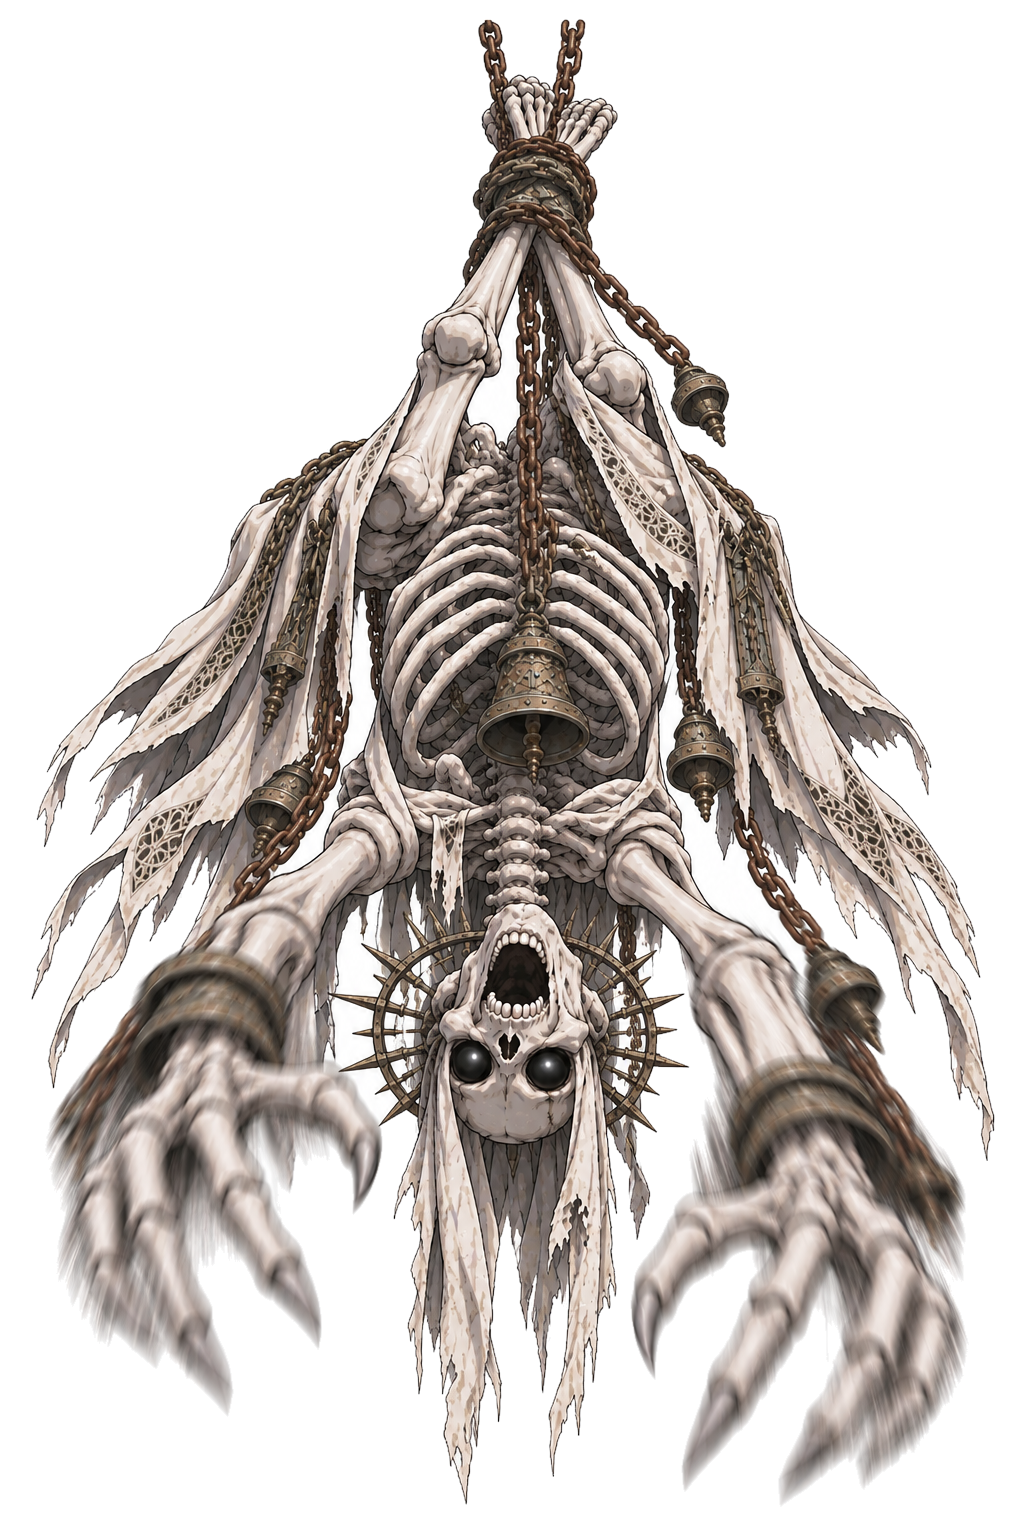
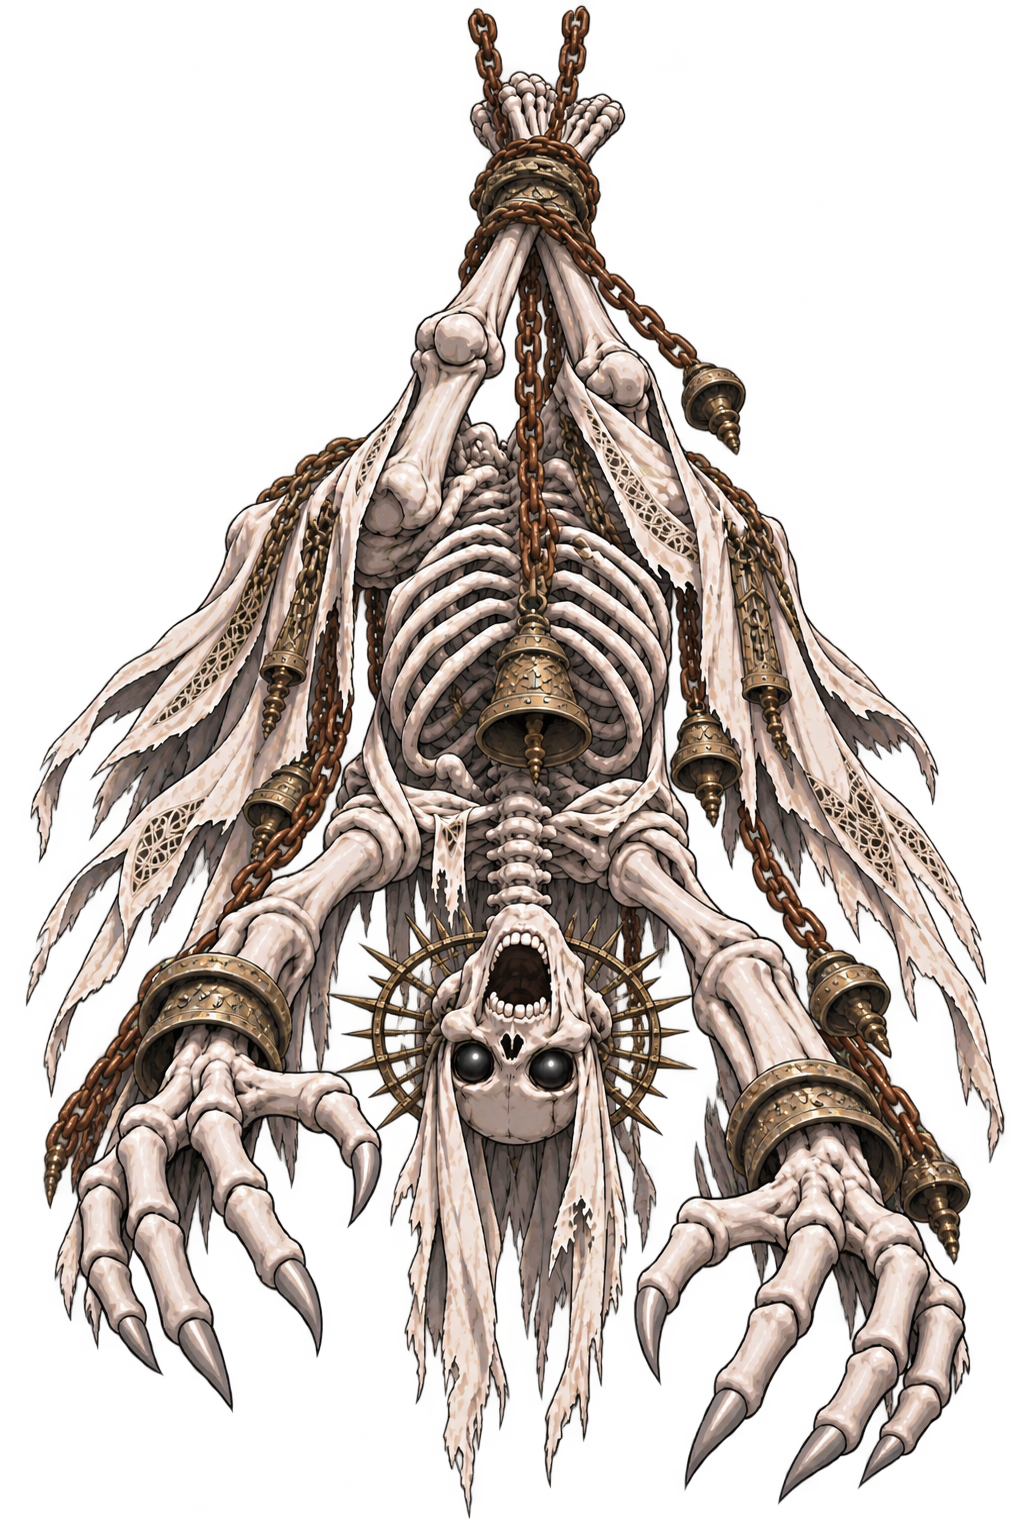
敵人：古墓 B 重做（吊鍊屍／聖匣之手改 GPT 重繪去背、墓香爐改甩、抬棺列回收）；骷髏塚散骨 17 個＋TO_CODE；審閱頁

Changed region(s): [[0.0312, 0.0, 1.0, 0.9798]]

diff --git a/tools/enemy_review/tomb_redo2.html b/tools/enemy_review/tomb_redo2.html
@@ -1,0 +1,49 @@
+<!doctype html>
+<html lang="zh-Hant"><head><meta charset="utf-8"><meta name="viewport" content="width=device-width,initial-scale=1">
+<title>古墓重出 B 審閱</title>
+<style>
+:root{--bg:#1a1a30;--fg:#eee;--chk1:#2a2a48;--chk2:#22223c}
+body{margin:0;background:var(--bg);color:var(--fg);font-family:"Microsoft JhengHei",sans-serif}
+h1{font-size:18px;margin:12px 16px}
+.note{margin:0 16px 12px;font-size:13px;color:#bbb}
+.grid{display:grid;grid-template-columns:repeat(auto-fill,minmax(420px,1fr));gap:16px;padding:0 16px 24px}
+.card{background:#111126;border-radius:8px;padding:10px}
+.card h2{font-size:16px;margin:0 0 4px;color:#ffe08a}
+.card p{font-size:13px;margin:0 0 8px;color:#ccc}
+.pair{display:grid;grid-template-columns:1fr 1fr;gap:6px}
+.pair figure{margin:0;text-align:center;font-size:12px;color:#aaa}
+.pair img{width:100%;aspect-ratio:2/3;object-fit:contain;cursor:zoom-in;
+ background:conic-gradient(var(--chk1) 25%,var(--chk2) 0 50%,var(--chk1) 0 75%,var(--chk2) 0) 0 0/24px 24px;border-radius:4px}
+#zoom{position:fixed;inset:0;background:rgba(0,0,0,.9);display:none;align-items:center;justify-content:center;cursor:zoom-out}
+#zoom img{max-width:96vw;max-height:96vh}
+</style></head><body>
+<h1>伊甸古墓：重出的攻擊 B（抬棺列已回收）（11-22）</h1>
+<div class="note">左＝原圖 A（中立）、右＝新 B（GPT 真透明）。點圖放大。點頭才跑 Wan。</div>
+<div class="grid" id="g"></div>
+<h1>骷髏塚：散骨（攻擊時程式讓它們高速飛向鏡頭）</h1>
+<div class="grid" style="grid-template-columns:repeat(auto-fill,minmax(120px,1fr))" id="bones"></div>
+<div id="zoom"><img></div>
+<script>
+const R='../../resources/enemy/_neutral_refs/tomb_kf/';
+const L=[
+ ['arch_warden','拱門守衛','拱門陰影裡鑽出怪物，雙爪撲向鏡頭'],
+ ['crypt_hound','墓犬','正面撲向鏡頭（⚠ 嘴是齜牙，沒張口咬下）'],
+ ['chain_hanged','吊鍊屍','盪過來、雙爪往鏡頭耙；比原圖大（去背重做：GPT 重繪）'],
+ ['reliquary_hand','聖匣之手','五指朝鏡頭抓（去背重做：GPT 重繪）'],
+ ['grave_censer','墓香爐','雙香爐用鏈條甩向鏡頭（11-22 改：用甩的）'],
+];
+const g=document.getElementById('g');
+for(const [n,t,d] of L){
+  const c=document.createElement('div'); c.className='card';
+  c.innerHTML=`<h2>${t} <small>${n}</small></h2><p>${d}</p><div class="pair">
+   <figure><img src="${R}src/mon_${n}.png"><figcaption>A 原圖</figcaption></figure>
+   <figure><img src="${R}tb_${n}_B.png?t=${Date.now()}"><figcaption>新 B</figcaption></figure></div>`;
+  g.appendChild(c);
+}
+const bz=document.getElementById('bones');
+for(let i=0;i<17;i++){ const c=document.createElement('div'); c.className='card'; c.innerHTML=`<div class="pair" style="grid-template-columns:1fr"><figure><img src="../../resources/enemy/fx/skull_cairn_bones/bone_${String(i).padStart(2,'0')}.webp" style="aspect-ratio:1"><figcaption>bone_${String(i).padStart(2,'0')}</figcaption></figure></div>`; bz.appendChild(c); }
+bz.addEventListener('click',e=>{ if(e.target.tagName==='IMG'){ z.querySelector('img').src=e.target.src; z.style.display='flex'; }});
+const z=document.getElementById('zoom');
+g.addEventListener('click',e=>{ if(e.target.tagName==='IMG'){ z.querySelector('img').src=e.target.src; z.style.display='flex'; }});
+z.addEventListener('click',()=>z.style.display='none');
+</script></body></html>
